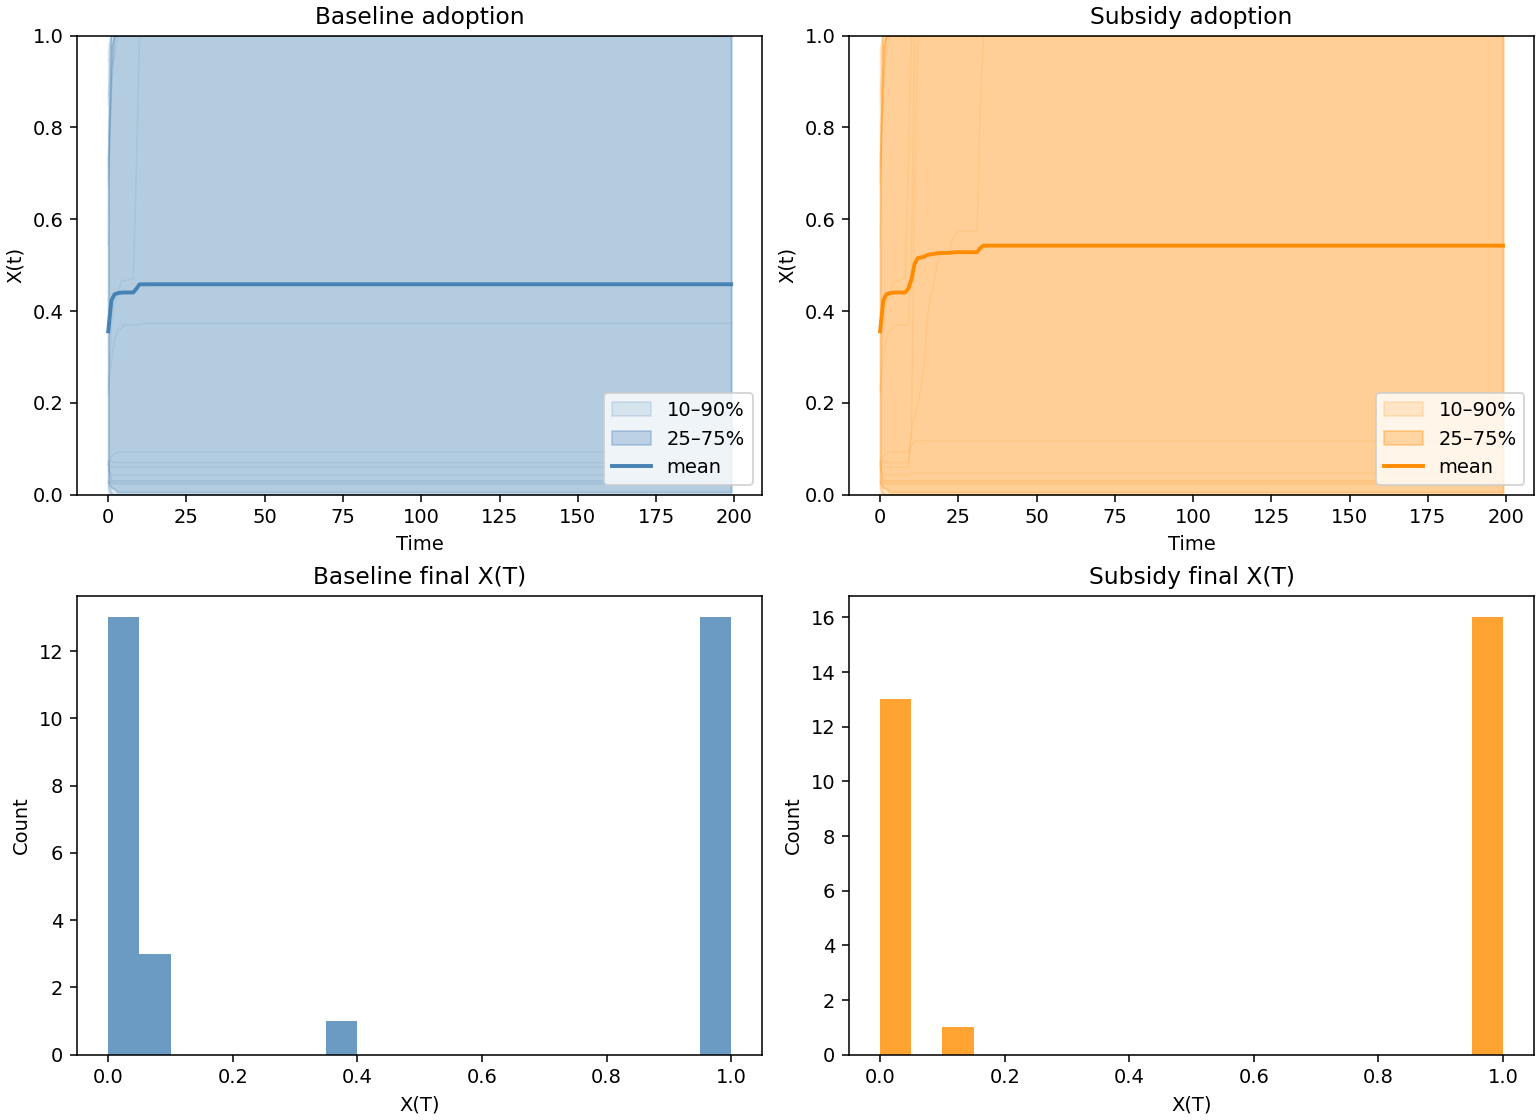
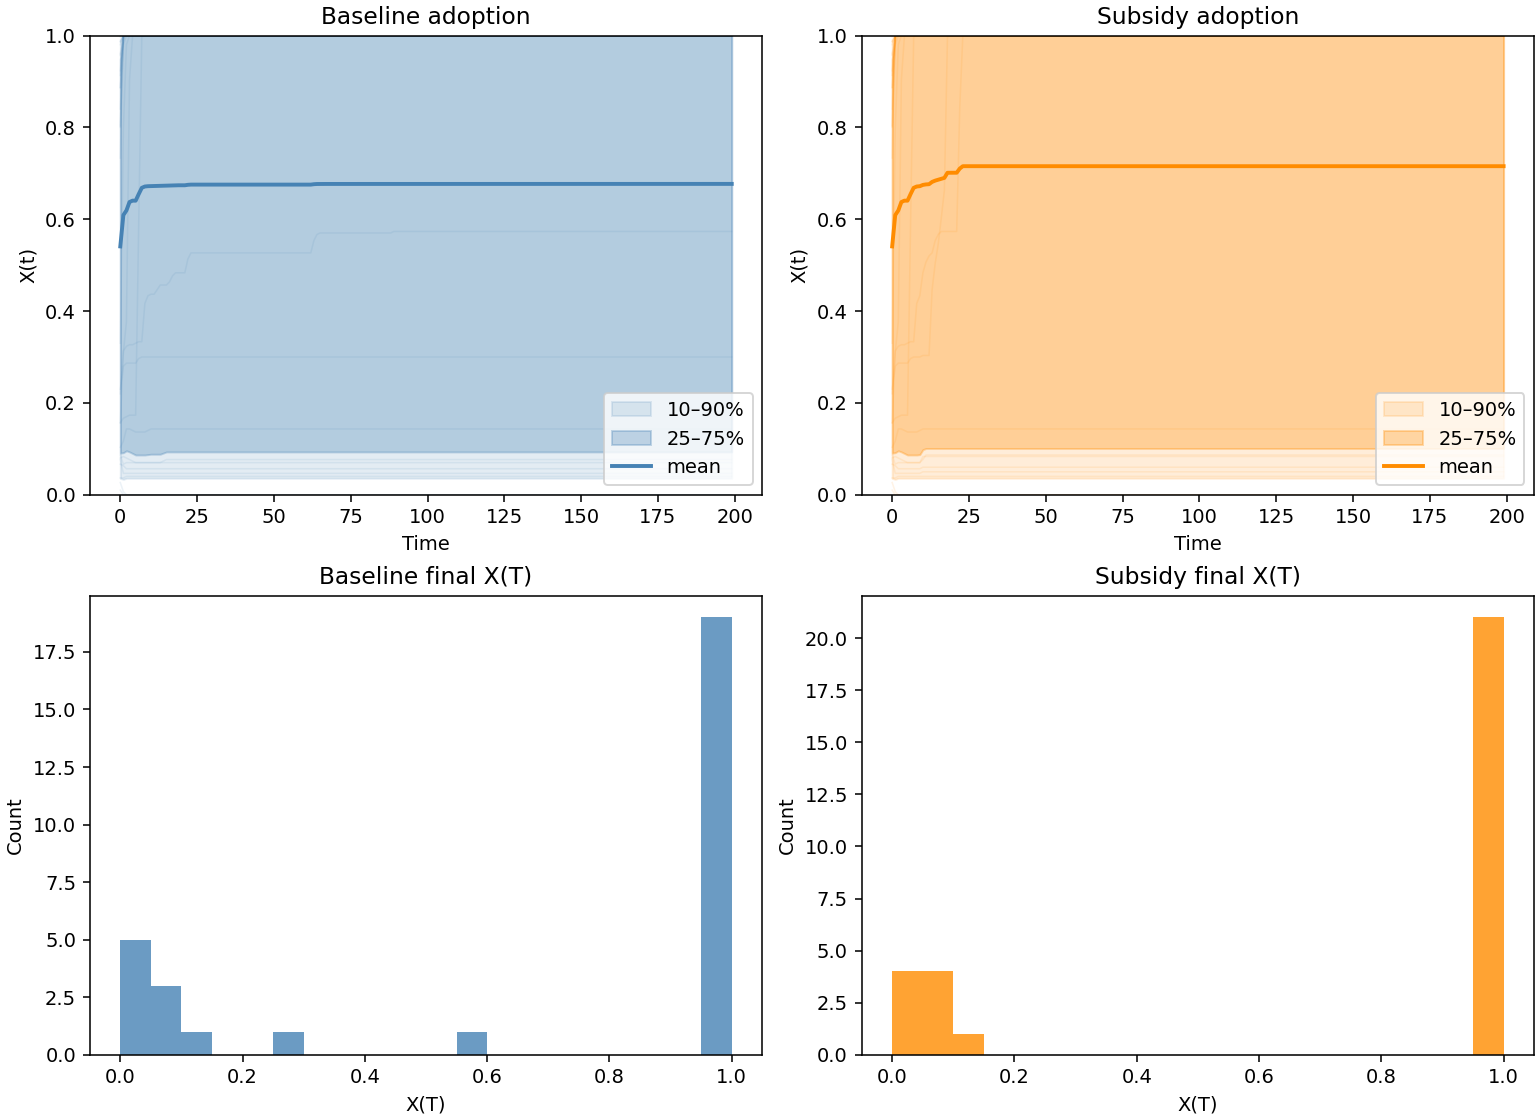
Fixed the matplotlib

diff --git a/Assignment 3/ev_experiments.py b/Assignment 3/ev_experiments.py
@@ -12,7 +12,9 @@ from typing import Callable, Dict, Optional, Tuple, List
 
 import numpy as np
 import pandas as pd
-import matplotlib.pyplot as plt
+import matplotlib
+matplotlib.use('Agg')
+from matplotlib import pyplot as plt
 from concurrent.futures import ProcessPoolExecutor, ThreadPoolExecutor, as_completed
 
 from ev_core import (
@@ -759,7 +761,7 @@ def main():
         n_nodes=300,
         m=2,
         collect=True,
-        X0_frac=0.40,
+        X0_frac=0.5, # ORIGINAL WAS 0.40
         init_method="random",
         # ER-specific `p` ignored for BA but kept for completeness
         p=0.05,

diff --git a/Assignment 3/ev_plotting.py b/Assignment 3/ev_plotting.py
@@ -12,7 +12,9 @@ from typing import Optional
 
 import numpy as np
 import pandas as pd
-import matplotlib.pyplot as plt
+import matplotlib
+matplotlib.use('Agg')
+from matplotlib import pyplot as plt
 
 
 def _default_plot_path(filename: str) -> str:
